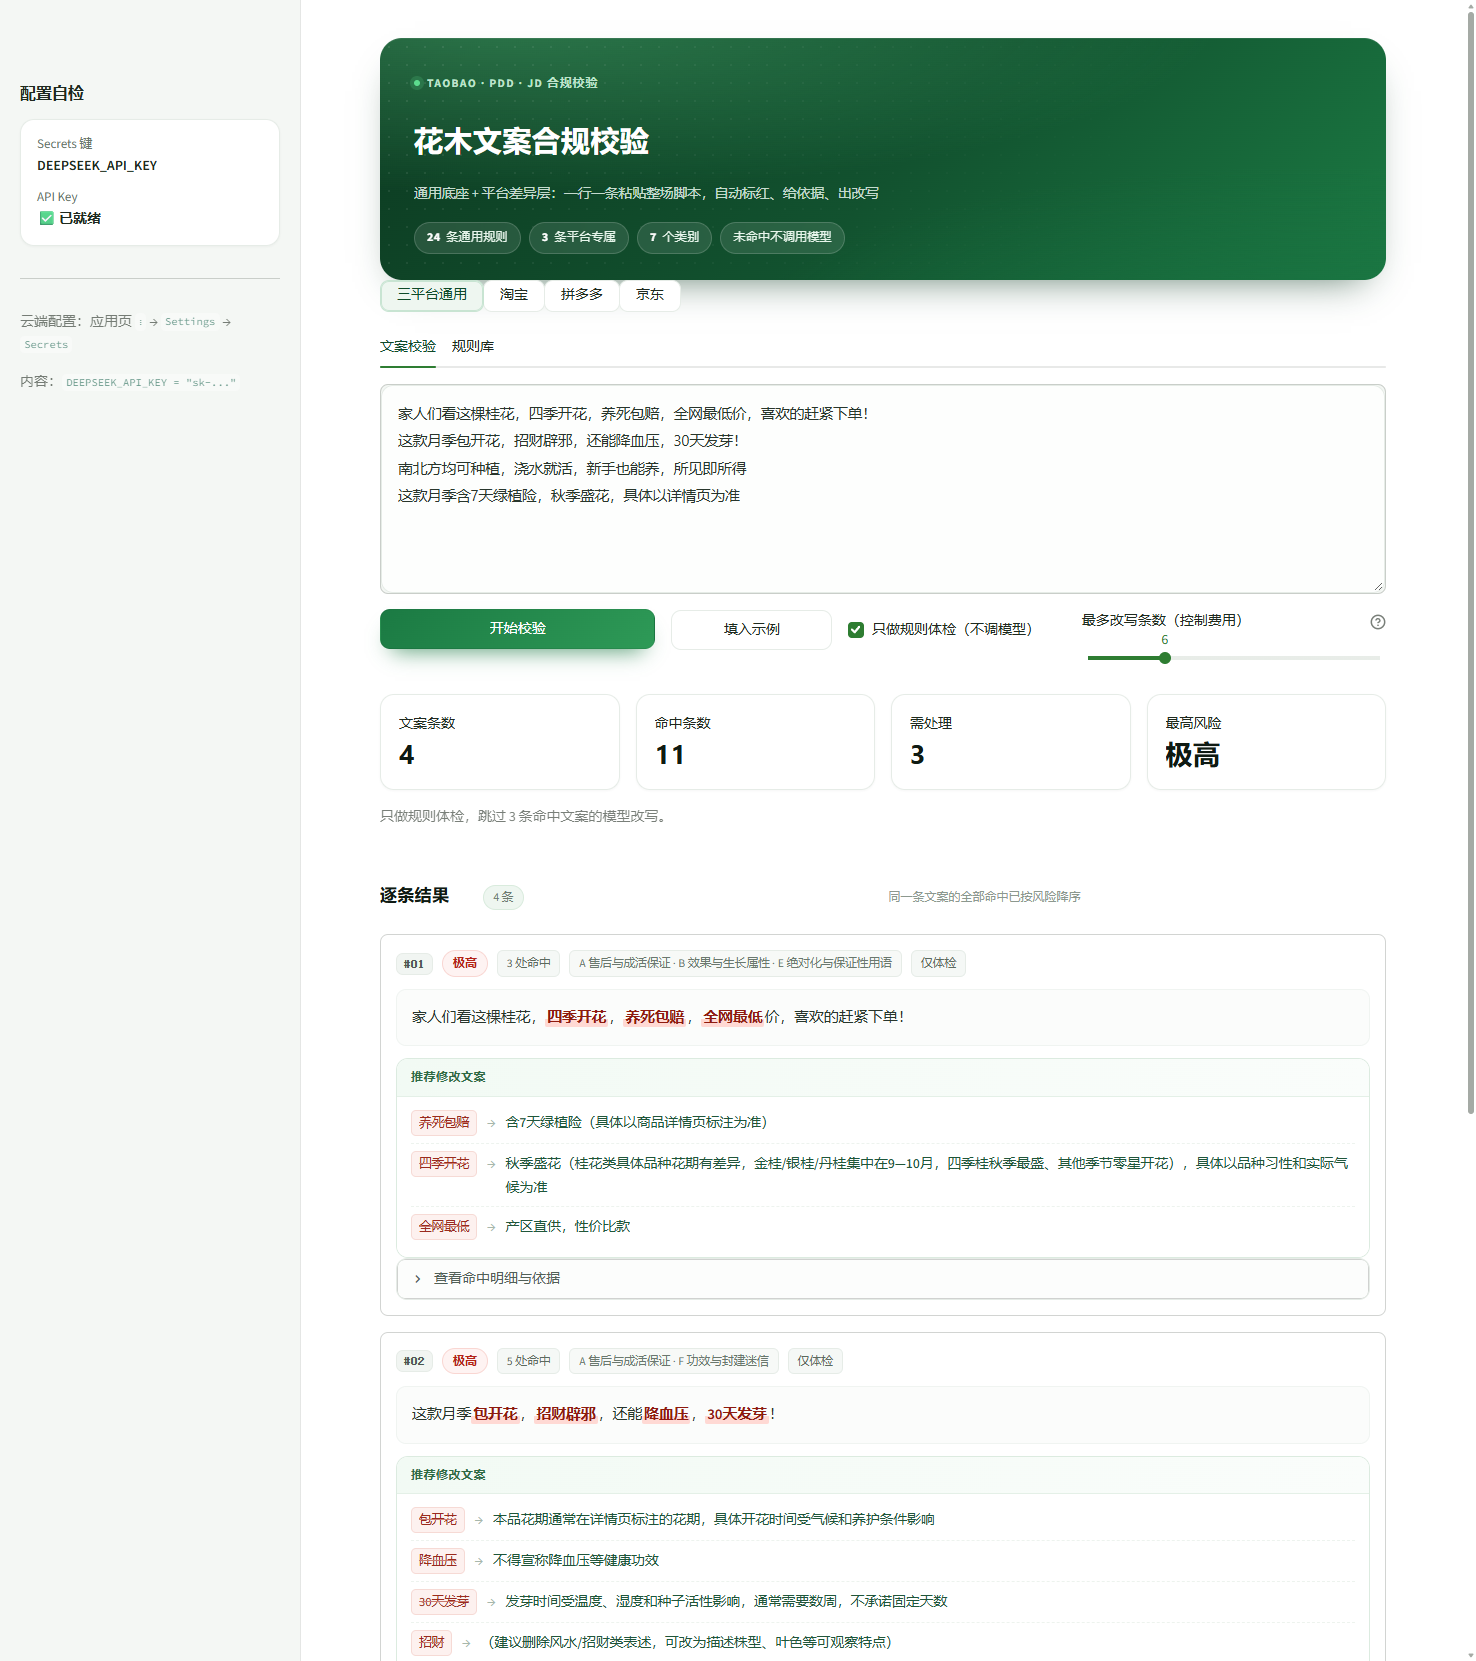
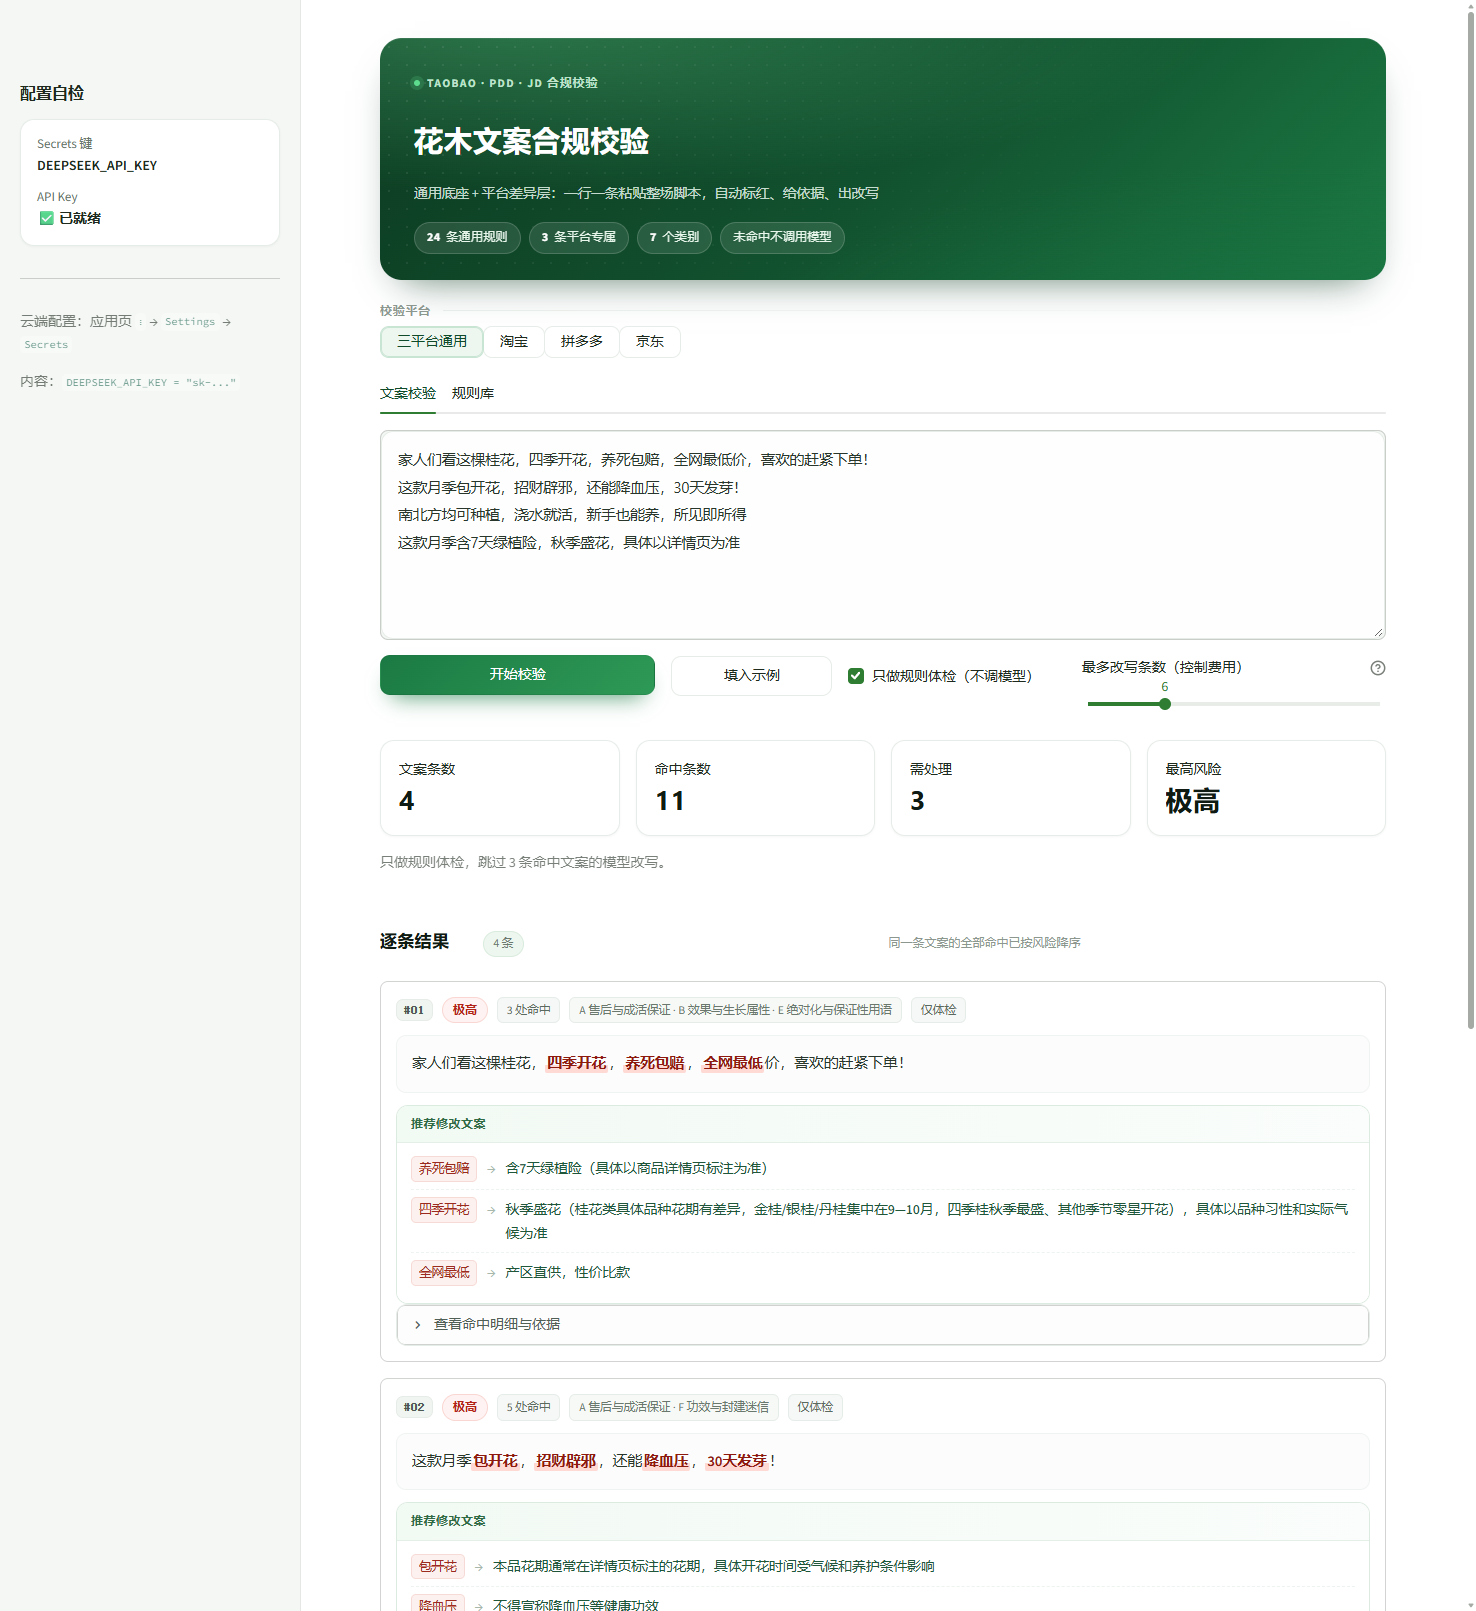
平台选择区与绿色 Hero 拉开间距，加标签行分隔

diff --git a/app.py b/app.py
@@ -85,6 +85,14 @@ st.markdown(
   .hm-chip b{font-weight:700; color:#fff; font-variant-numeric:tabular-nums;}
 
   /* ---------- 平台切换 ---------- */
+  .hm-plat{
+    margin:22px 0 6px; display:flex; align-items:center; gap:12px;
+  }
+  .hm-plat .lb{
+    font-size:11.5px; letter-spacing:1.2px; color:var(--muted-2); font-weight:700; text-transform:uppercase;
+  }
+  .hm-plat .line{flex:1; height:1px; background:linear-gradient(90deg,var(--line),transparent);}
+
   div[data-testid="stButtonGroup"] button, div[data-testid="stSegmentedControl"] button{
     border-radius:9px !important; font-size:13px !important; font-weight:600 !important;
     padding:6px 16px !important; border:1px solid var(--line) !important;
@@ -363,6 +371,10 @@ st.markdown(
 
 # 平台选择：all = 通用底座，其余叠加该平台的差异层规则
 _pname_to_code = {v: k for k, v in platforms.items()}
+st.markdown(
+    '<div class="hm-plat"><span class="lb">校验平台</span><span class="line"></span></div>',
+    unsafe_allow_html=True,
+)
 _choice = st.segmented_control(
     "校验平台",
     list(platforms.values()),
